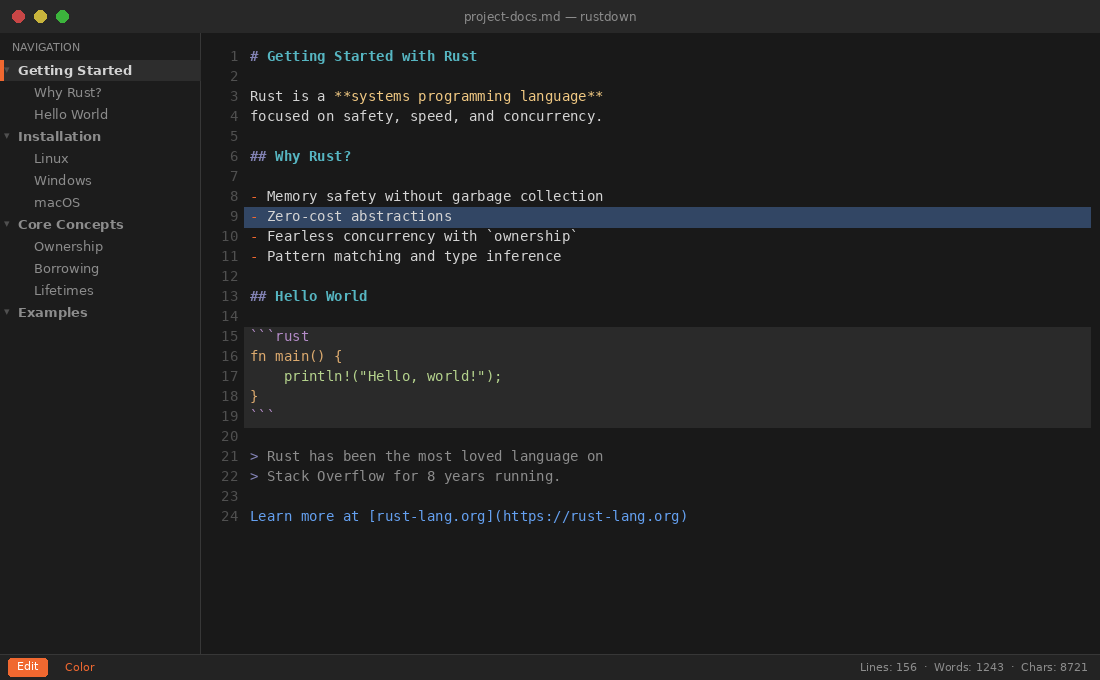
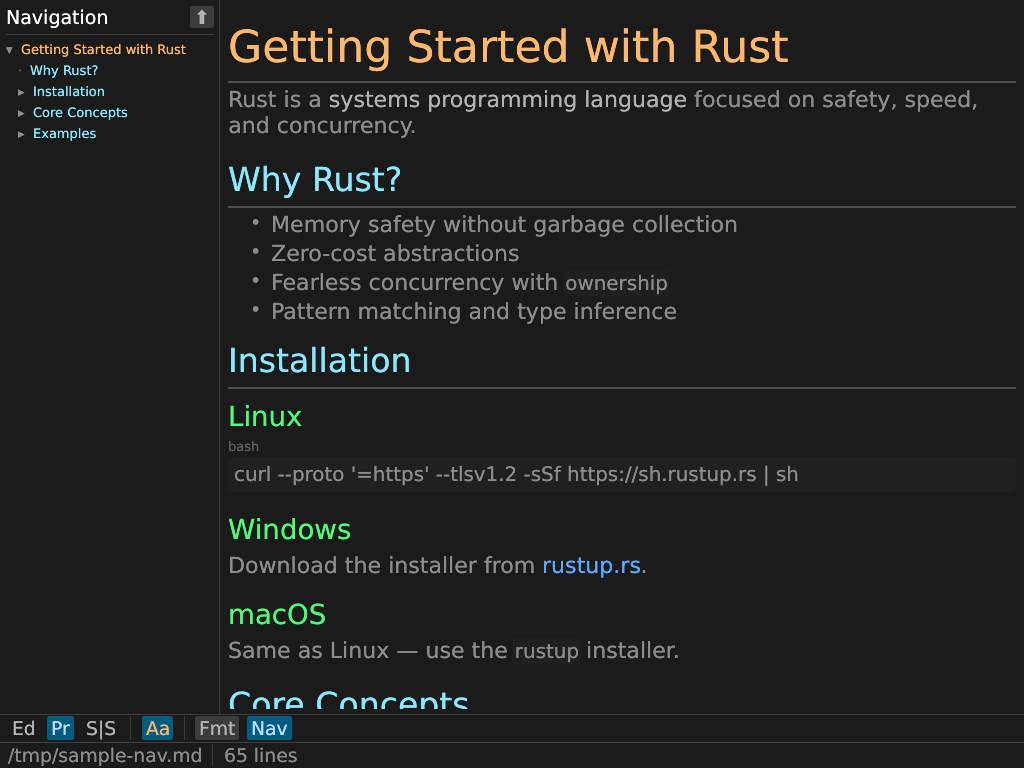
fix: replace AI mockup screenshots with real captures, move nav left, enable heading colours
- Replace fabricated Copilot-generated screenshot PNGs with authentic
  captures from the running application via eframe's __screenshot feature
- Move navigation panel from right to left side
- Enable Dracula heading colour mode by default

diff --git a/crates/rustdown-gui/src/nav_panel.rs b/crates/rustdown-gui/src/nav_panel.rs
@@ -64,7 +64,7 @@ impl Default for NavState {
             outline_source: Arc::new(String::new()),
             outline_seq: u64::MAX,
             max_depth: 4,
-            heading_color_mode: false,
+            heading_color_mode: true,
             expanded: Vec::new(),
             active_index: None,
             pending_scroll: None,
@@ -281,7 +281,7 @@ impl NavState {
             .fill(ctx.style().visuals.panel_fill)
             .inner_margin(6);
 
-        egui::SidePanel::right("navigation")
+        egui::SidePanel::left("navigation")
             .resizable(true)
             .min_width(NAV_PANEL_MIN_WIDTH)
             .default_width(NAV_PANEL_DEFAULT_WIDTH)

diff --git a/crates/rustdown-gui/src/main.rs b/crates/rustdown-gui/src/main.rs
@@ -767,6 +767,7 @@ impl RustdownApp {
     fn from_launch_options(options: LaunchOptions) -> Self {
         let mut app = Self {
             mode: options.mode,
+            heading_color_mode: true,
             ..Self::default()
         };
         if let Some(path) = options.path {
